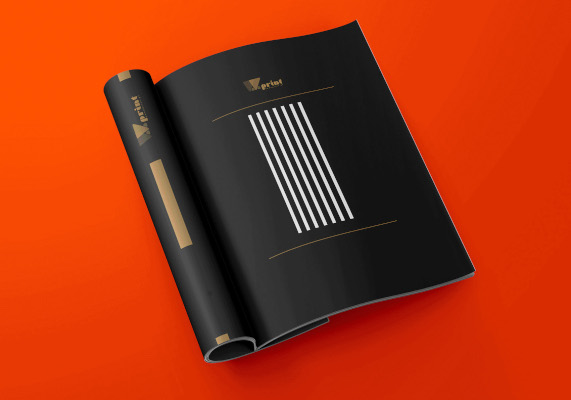
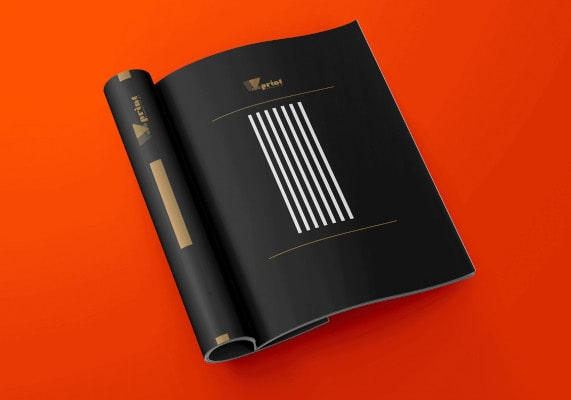
webp init

diff --git a/ksiazki.html b/ksiazki.html
@@ -133,23 +133,38 @@
 					<div class="img-box-wrapper">
 						<div class="row">
 							<div class="col-sm-6">
-								<img class="w100 fit-object-cover" src="img/ksiazki/ksiazka_oprawa_twarda_klejona_1.jpg" alt="Wawaprint - Książka oprawa twarda klejona" height="308" />
+								<picture>
+									<source type="image/webp" srcset="/img/ksiazki/ksiazka_oprawa_twarda_klejona_1.webp">
+									<img class="w100 fit-object-cover" src="img/ksiazki/ksiazka_oprawa_twarda_klejona_1.jpg" alt="Wawaprint - Książka oprawa twarda klejona" height="308" />
+								</picture>
 							</div><!-- /.col-sm-6 -->
 							<div class="col-sm-6">
-								<img class="w100 fit-object-cover" src="img/ksiazki/ksiazka_oprawa_miekka_klejona.jpg" alt="Wawaprint - Ksiązka oprawa miękka klejona" height="308" />
+								<picture>
+									<source type="image/webp" srcset="/img/ksiazki/ksiazka_oprawa_miekka_klejona.webp">
+									<img class="w100 fit-object-cover" src="img/ksiazki/ksiazka_oprawa_miekka_klejona.jpg" alt="Wawaprint - Ksiązka oprawa miękka klejona" height="308" />
+								</picture>
 							</div><!-- /.col-sm-6 -->
 						</div><!-- /.row -->
 						<div class="row">
 							<div class="col-sm-6">
-								<img class="w100 fit-object-cover" src="img/ksiazki/ksiazka_oprawa_spiralna.jpg" alt="Wawaprint - Książka oprawa spiralna" height="308" />
+								<picture>
+									<source type="image/webp" srcset="/img/ksiazki/ksiazka_oprawa_spiralna.webp">
+									<img class="w100 fit-object-cover" src="img/ksiazki/ksiazka_oprawa_spiralna.jpg" alt="Wawaprint - Książka oprawa spiralna" height="308" />
+								</picture>
 							</div><!-- /.col-sm-6 -->
 							<div class="col-sm-6">
-								<img class="w100 fit-object-cover" src="img/ksiazki/ksiazka_oprawa_zeszytowa.jpg" alt="Wawaprint - Książka oprawa zeszytowa" height="308" />
+								<picture>
+									<source type="image/webp" srcset="/img/ksiazki/ksiazka_oprawa_zeszytowa.webp">
+									<img class="w100 fit-object-cover" src="img/ksiazki/ksiazka_oprawa_zeszytowa.jpg" alt="Wawaprint - Książka oprawa zeszytowa" height="308" />
+								</picture>
 							</div><!-- /.col-sm-6 -->
 						</div><!-- /.row -->
 						<div class="row">
 							<div class="col-sm-12">
-								<img class="w100 fit-object-cover" src="img/ksiazki/ksiazka_oprawa_twarda_szyto_klejona_otwarta.jpg" alt="Wawaprint - Książka oprawa twarda szyto-klejona" height="378"/>
+								<picture>
+									<source type="image/webp" srcset="/img/ksiazki/ksiazka_oprawa_twarda_szyto_klejona_otwarta.webp">
+									<img class="w100 fit-object-cover" src="img/ksiazki/ksiazka_oprawa_twarda_szyto_klejona_otwarta.jpg" alt="Wawaprint - Książka oprawa twarda szyto-klejona" height="378"/>
+								</picture>
 							</div><!-- /.col-md-12 -->
 						</div><!-- /.row -->
 					</div><!-- /.img-box-wrapper -->

diff --git a/kalendarze.html b/kalendarze.html
@@ -133,23 +133,38 @@
 					<div class="img-box-wrapper">
 						<div class="row">
 							<div class="col-sm-6">
-								<img class="w100 fit-object-cover" src="img/wizytowki/Wizytowka_skladana_wawprint_2.jpg" alt="Wawaprint - wizytówka składana" height="308" />
+								<picture>
+									<source type="image/webp" srcset="/img/wizytowki/Wizytowka_skladana_wawprint_2.webp">
+									<img class="w100 fit-object-cover" src="img/wizytowki/Wizytowka_skladana_wawprint_2.jpg" alt="Wawaprint - wizytówka składana" height="308" />
+								</picture>
 							</div><!-- /.col-sm-6 -->
 							<div class="col-sm-6">
-								<img class="w100 fit-object-cover" src="img/wizytowki/Wizytowka_skladana_wawprint_2.jpg" alt="Wawaprint - wizytówka składana" height="308" />
+								<picture>
+									<source type="image/webp" srcset="/img/wizytowki/Wizytowka_skladana_wawprint_2.webp">
+									<img class="w100 fit-object-cover" src="img/wizytowki/Wizytowka_skladana_wawprint_2.jpg" alt="Wawaprint - wizytówka składana" height="308" />
+								</picture>
 							</div><!-- /.col-sm-6 -->
 						</div><!-- /.row -->
 						<div class="row">
 							<div class="col-sm-6">
-								<img class="w100 fit-object-cover" src="img/wizytowki/Wizytowka_skladana_wawprint_2.jpg" alt="Wawaprint - wizytówka składana" height="308" />
+								<picture>
+									<source type="image/webp" srcset="/img/wizytowki/Wizytowka_skladana_wawprint_2.webp">
+									<img class="w100 fit-object-cover" src="img/wizytowki/Wizytowka_skladana_wawprint_2.jpg" alt="Wawaprint - wizytówka składana" height="308" />
+								</picture>
 							</div><!-- /.col-sm-6 -->
 							<div class="col-sm-6">
-								<img class="w100 fit-object-cover" src="img/wizytowki/Wizytowka_skladana_wawprint_2.jpg" alt="Wawaprint - wizytówka składana" height="308" />
+								<picture>
+									<source type="image/webp" srcset="/img/wizytowki/Wizytowka_skladana_wawprint_2.webp">
+									<img class="w100 fit-object-cover" src="img/wizytowki/Wizytowka_skladana_wawprint_2.jpg" alt="Wawaprint - wizytówka składana" height="308" />
+								</picture>
 							</div><!-- /.col-sm-6 -->
 						</div><!-- /.row -->
 						<div class="row">
 							<div class="col-sm-12">
-								<img class="w100 fit-object-cover" src="img/wizytowki/Wizytowka_skladana_wawprint_2.jpg" alt="Wawaprint - wizytówka składana" height="378"/>
+								<picture>
+									<source type="image/webp" srcset="/img/wizytowki/Wizytowka_skladana_wawprint_2.webp">
+									<img class="w100 fit-object-cover" src="img/wizytowki/Wizytowka_skladana_wawprint_2.jpg" alt="Wawaprint - wizytówka składana" height="378"/>
+								</picture>
 							</div><!-- /.col-md-12 -->
 						</div><!-- /.row -->
 					</div><!-- /.img-box-wrapper -->

diff --git a/wizytowki.html b/wizytowki.html
@@ -133,23 +133,38 @@
 					<div class="img-box-wrapper">
 						<div class="row">
 							<div class="col-sm-6">
-								<img class="w100 fit-object-cover" src="img/wizytowki/Wizytowka_wawprint_3.jpg" alt="Wawaprint - wizytówka" height="308" />
+								<picture>
+									<source type="image/webp" srcset="/img/wizytowki/Wizytowka_wawprint_3.webp">
+									<img class="w100 fit-object-cover" src="img/wizytowki/Wizytowka_wawprint_3.jpg" alt="Wawaprint - wizytówka" height="308" />
+								</picture>
 							</div><!-- /.col-sm-6 -->
 							<div class="col-sm-6">
-								<img class="w100 fit-object-cover" src="img/wizytowki/Wizytowka_zaokraglona_wawprint_1.jpg" alt="Wawaprint - wizytówka okrągła" height="308" />
+								<picture>
+									<source type="image/webp" srcset="/img/wizytowki/Wizytowka_zaokraglona_wawprint_1.webp">
+									<img class="w100 fit-object-cover" src="img/wizytowki/Wizytowka_zaokraglona_wawprint_1.jpg" alt="Wawaprint - wizytówka okrągła" height="308" />
+								</picture>
 							</div><!-- /.col-sm-6 -->
 						</div><!-- /.row -->
 						<div class="row">
 							<div class="col-sm-6">
-								<img class="w100 fit-object-cover" src="img/wizytowki/Wizytowka_zaokraglona_wawprint_2.jpg" alt="Wawaprint - wizytówka okrągła" height="308" />
+								<picture>
+									<source type="image/webp" srcset="/img/wizytowki/Wizytowka_zaokraglona_wawprint_2.webp">
+									<img class="w100 fit-object-cover" src="img/wizytowki/Wizytowka_zaokraglona_wawprint_2.jpg" alt="Wawaprint - wizytówka okrągła" height="308" />
+								</picture>
 							</div><!-- /.col-sm-6 -->
 							<div class="col-sm-6">
-								<img class="w100 fit-object-cover" src="img/wizytowki/Wizytowka_skladana_wawprint_3.jpg" alt="Wawaprint - wizytówka składana" height="308" />
+								<picture>
+									<source type="image/webp" srcset="/img/wizytowki/Wizytowka_skladana_wawprint_3.webp">
+									<img class="w100 fit-object-cover" src="img/wizytowki/Wizytowka_skladana_wawprint_3.jpg" alt="Wawaprint - wizytówka składana" height="308" />
+								</picture>
 							</div><!-- /.col-sm-6 -->
 						</div><!-- /.row -->
 						<div class="row">
 							<div class="col-sm-12">
-								<img class="w100 fit-object-cover" src="img/wizytowki/Wizytowka_skladana_wawprint_2.jpg" alt="Wawaprint - wizytówka składana" height="378"/>
+								<picture>
+									<source type="image/webp" srcset="/img/wizytowki/Wizytowka_skladana_wawprint_2.webp">
+									<img class="w100 fit-object-cover" src="img/wizytowki/Wizytowka_skladana_wawprint_2.jpg" alt="Wawaprint - wizytówka składana" height="378"/>
+								</picture>
 							</div><!-- /.col-md-12 -->
 						</div><!-- /.row -->
 					</div><!-- /.img-box-wrapper -->

diff --git a/broszury-i-foldery.html b/broszury-i-foldery.html
@@ -133,23 +133,38 @@
 					<div class="img-box-wrapper">
 						<div class="row">
 							<div class="col-sm-6">
-								<img class="w100 fit-object-cover" src="img/broszury/Folder_reklamowy_wawprint_4.jpg" alt="Wawaprint - wizytówka składana" height="308" />
+								<picture>
+									<source type="image/webp" srcset="/img/broszury/Folder_reklamowy_wawprint_4.webp">
+									<img class="w100 fit-object-cover" src="img/broszury/Folder_reklamowy_wawprint_4.jpg" alt="Wawaprint - wizytówka składana" height="308" />
+								</picture>
 							</div><!-- /.col-sm-6 -->
 							<div class="col-sm-6">
-								<img class="w100 fit-object-cover" src="img/broszury/Broszury_reklamowy_wawprint_2.jpg" alt="Wawaprint - wizytówka składana" height="308" />
+								<picture>
+									<source type="image/webp" srcset="/img/broszury/Broszury_reklamowy_wawprint_2.webp">
+									<img class="w100 fit-object-cover" src="img/broszury/Broszury_reklamowy_wawprint_2.jpg" alt="Wawaprint - wizytówka składana" height="308" />
+								</picture>
 							</div><!-- /.col-sm-6 -->
 						</div><!-- /.row -->
 						<div class="row">
 							<div class="col-sm-6">
-								<img class="w100 fit-object-cover" src="img/broszury/Folder_reklamowy_wawprint_2.jpg" alt="Wawaprint - wizytówka składana" height="308" />
+								<picture>
+									<source type="image/webp" srcset="/img/broszury/Folder_reklamowy_wawprint_2.webp">
+									<img class="w100 fit-object-cover" src="img/broszury/Folder_reklamowy_wawprint_2.jpg" alt="Wawaprint - wizytówka składana" height="308" />
+								</picture>
 							</div><!-- /.col-sm-6 -->
 							<div class="col-sm-6">
-								<img class="w100 fit-object-cover" src="img/broszury/Katalog_reklamowy_wawprint_3.jpg" alt="Wawaprint - wizytówka składana" height="308" />
+								<picture>
+									<source type="image/webp" srcset="/img/broszury/Katalog_reklamowy_wawprint_3.webp">
+									<img class="w100 fit-object-cover" src="img/broszury/Katalog_reklamowy_wawprint_3.jpg" alt="Wawaprint - wizytówka składana" height="308" />
+								</picture>
 							</div><!-- /.col-sm-6 -->
 						</div><!-- /.row -->
 						<div class="row">
 							<div class="col-sm-12">
-								<img class="w100 fit-object-cover" src="img/broszury/Broszury_reklamowy_wawprint_1.jpg" alt="Wawaprint - wizytówka składana" height="378"/>
+								<picture>
+									<source type="image/webp" srcset="/img/broszury/Broszury_reklamowy_wawprint_1.webp">
+									<img class="w100 fit-object-cover" src="img/broszury/Broszury_reklamowy_wawprint_1.jpg" alt="Wawaprint - wizytówka składana" height="378"/>
+								</picture>
 							</div><!-- /.col-md-12 -->
 						</div><!-- /.row -->
 					</div><!-- /.img-box-wrapper -->

diff --git a/notesy.html b/notesy.html
@@ -133,23 +133,38 @@
 					<div class="img-box-wrapper">
 						<div class="row">
 							<div class="col-sm-6">
-								<img class="w100 fit-object-cover" src="img/notesy/Notesy_spirala_wawprint_5.jpg" alt="Wawaprint - notesy spirala" height="308" />
+								<picture>
+									<source type="image/webp" srcset="/img/notesy/Notesy_spirala_wawprint_5.webp">
+									<img class="w100 fit-object-cover" src="img/notesy/Notesy_spirala_wawprint_5.jpg" alt="Wawaprint - notesy spirala" height="308" />
+								</picture>
 							</div><!-- /.col-sm-6 -->
 							<div class="col-sm-6">
-								<img class="w100 fit-object-cover" src="img/notesy/Notesy_spirala_wawprint_2.jpg" alt="Wawaprint - notesy spirala" height="308" />
+								<picture>
+									<source type="image/webp" srcset="/img/notesy/Notesy_spirala_wawprint_2.webp">
+									<img class="w100 fit-object-cover" src="img/notesy/Notesy_spirala_wawprint_2.jpg" alt="Wawaprint - notesy spirala" height="308" />
+								</picture>
 							</div><!-- /.col-sm-6 -->
 						</div><!-- /.row -->
 						<div class="row">
 							<div class="col-sm-6">
-								<img class="w100 fit-object-cover" src="img/notesy/Notesy_spirala_wawprint_4.jpg" alt="Wawaprint - notesy spirala" height="308" />
+								<picture>
+									<source type="image/webp" srcset="/img/notesy/Notesy_spirala_wawprint_4.webp">
+									<img class="w100 fit-object-cover" src="img/notesy/Notesy_spirala_wawprint_4.jpg" alt="Wawaprint - notesy spirala" height="308" />
+								</picture>
 							</div><!-- /.col-sm-6 -->
 							<div class="col-sm-6">
-								<img class="w100 fit-object-cover" src="img/notesy/Notesy_spirala_wawprint_6.jpg" alt="Wawaprint - notesy spirala" height="308" />
+								<picture>
+									<source type="image/webp" srcset="/img/notesy/Notesy_spirala_wawprint_6.webp">
+									<img class="w100 fit-object-cover" src="img/notesy/Notesy_spirala_wawprint_6.jpg" alt="Wawaprint - notesy spirala" height="308" />
+								</picture>
 							</div><!-- /.col-sm-6 -->
 						</div><!-- /.row -->
 						<div class="row">
 							<div class="col-sm-12">
-								<img class="w100 fit-object-cover" src="img/notesy/Notesy_spirala_wawprint_1.jpg" alt="Wawaprint - notesy spirala" height="378"/>
+								<picture>
+									<source type="image/webp" srcset="/img/notesy/Notesy_spirala_wawprint_1.webp">
+									<img class="w100 fit-object-cover" src="img/notesy/Notesy_spirala_wawprint_1.jpg" alt="Wawaprint - notesy spirala" height="378"/>
+								</picture>
 							</div><!-- /.col-md-12 -->
 						</div><!-- /.row -->
 					</div><!-- /.img-box-wrapper -->

diff --git a/product-details.html b/product-details.html
@@ -133,23 +133,38 @@
 					<div class="img-box-wrapper">
 						<div class="row">
 							<div class="col-sm-6">
-								<img class="w100 fit-object-cover" src="@@ProductImg_0" alt="@@ProductImgAlt_0" height="308" />
+								<picture>
+									<source type="image/webp" srcset="@@ProductImgWebp_0">
+									<img class="w100 fit-object-cover" src="@@ProductImg_0" alt="@@ProductImgAlt_0" height="308" />
+								</picture>
 							</div><!-- /.col-sm-6 -->
 							<div class="col-sm-6">
-								<img class="w100 fit-object-cover" src="@@ProductImg_1" alt="@@ProductImgAlt_1" height="308" />
+								<picture>
+									<source type="image/webp" srcset="@@ProductImgWebp_1">
+									<img class="w100 fit-object-cover" src="@@ProductImg_1" alt="@@ProductImgAlt_1" height="308" />
+								</picture>
 							</div><!-- /.col-sm-6 -->
 						</div><!-- /.row -->
 						<div class="row">
 							<div class="col-sm-6">
-								<img class="w100 fit-object-cover" src="@@ProductImg_2" alt="@@ProductImgAlt_2" height="308" />
+								<picture>
+									<source type="image/webp" srcset="@@ProductImgWebp_2">
+									<img class="w100 fit-object-cover" src="@@ProductImg_2" alt="@@ProductImgAlt_2" height="308" />
+								</picture>
 							</div><!-- /.col-sm-6 -->
 							<div class="col-sm-6">
-								<img class="w100 fit-object-cover" src="@@ProductImg_3" alt="@@ProductImgAlt_3" height="308" />
+								<picture>
+									<source type="image/webp" srcset="@@ProductImgWebp_3">
+									<img class="w100 fit-object-cover" src="@@ProductImg_3" alt="@@ProductImgAlt_3" height="308" />
+								</picture>
 							</div><!-- /.col-sm-6 -->
 						</div><!-- /.row -->
 						<div class="row">
 							<div class="col-sm-12">
-								<img class="w100 fit-object-cover" src="@@ProductImg_4" alt="@@ProductImgAlt_4" height="378"/>
+								<picture>
+									<source type="image/webp" srcset="@@ProductImgWebp_4">
+									<img class="w100 fit-object-cover" src="@@ProductImg_4" alt="@@ProductImgAlt_4" height="378"/>
+								</picture>
 							</div><!-- /.col-md-12 -->
 						</div><!-- /.row -->
 					</div><!-- /.img-box-wrapper -->

diff --git a/css/responsive.css b/css/responsive.css
@@ -17,7 +17,7 @@
         margin-right: 0;
         border-color: #212121;
         background-color: transparent !important;
-        margin: 40px 0;
+        margin: 24px 0;
     }
     .navbar-default .navbar-toggle:hover {border-color: #FF4328;}
     .navbar-default .navbar-toggle .icon-bar {background: #212121;}
@@ -135,12 +135,12 @@
     .navbar-header {padding-right: 0px;}
     .header-navigation ul.navigation-box > li > ul.sub-menu > li > a .sub-nav-toggler {border-color: #F5F6FA}
     .header-navigation ul.navigation-box > li > ul.sub-menu > li > a .sub-nav-toggler .icon-bar {background-color: #F5F6FA}
-    .header-navigation .thm-container .navbar-brand {padding: 25px 0;}
+    .header-navigation .thm-container .navbar-brand {padding: 19px 0;}
     .header-navigation ul.navigation-box > li:hover > a,
     .header-navigation ul.navigation-box > li.current > a {background: #FF4328;color: #fff;}
     .header-navigation .thm-container {padding-right: 15px;}
     .header-navigation .thm-container .navbar-header {padding-right: 150px;}
-    .header-navigation .thm-container .right-side-box {top:30px;-webkit-transform: translateX(0); -ms-transform: translateX(0); -o-transform: translateX(0); transform: translateX(0);right: 15px;} 
+    .header-navigation .thm-container .right-side-box {top:12px;-webkit-transform: translateX(0); -ms-transform: translateX(0); -o-transform: translateX(0); transform: translateX(0);right: 15px;} 
     .header-navigation .thm-container .navbar-header {position: static;-webkit-transform: translateX(0); -ms-transform: translateX(0); -o-transform: translateX(0); transform: translateX(0);}
     .header-navigation ul.navigation-box > li::before {display: none;} 
 }

diff --git a/css/style.css b/css/style.css
@@ -253,13 +253,13 @@ body.active-preloader-ovh {
 ***************************/
 
 .avoid-site-jump{
-  height: 128px;
+  height: 82px;
   position: absolute;
 }
 
 @media (max-width: 1024px){
   .avoid-site-jump{
-    height: 114px;
+    height: 82px;
   }
 }
 
@@ -345,7 +345,7 @@ body.active-preloader-ovh {
 
 .header-navigation ul.navigation-box>li {
   position: relative;
-  padding: 48.5px 0;
+  padding:  25px 0;
   display: inline-block;
 }
 
@@ -495,23 +495,13 @@ body.active-preloader-ovh {
   box-shadow: none;
 }
 
-.header-navigation.stricky-fixed .thm-container .navbar-brand {
-  padding-top: 27px;
-  padding-bottom: 27px;
-}
-
-.header-navigation.stricky-fixed ul.navigation-box>li {
-  padding-top: 30px;
-  padding-bottom: 30px;
-}
-
 @media (max-width: 1200px){
   .header-navigation ul.navigation-box {
     max-width: 700px;
   }
   .header-navigation ul.navigation-box>li {
    float: revert;
-   padding: 16px 0px; 
+   padding: 5px 0px; 
   }
   .header-navigation.stricky-fixed ul.navigation-box>li {
     padding: 7px 0px; 

diff --git a/js/custom.js b/js/custom.js
@@ -295,12 +295,12 @@ function thmbxSlider() {
 
 function stickyHeader() {
     if ($('.stricky').length) {
-        var strickyScrollPos = 129;
+        var strickyScrollPos = 82;
         var stricky = $('.stricky');
         if ($(window).scrollTop() > strickyScrollPos) {        	
             stricky.removeClass('slideIn animated');
             stricky.addClass('stricky-fixed slideInDown animated');
-            stricky[0].style.top = ($(window).scrollTop() - (2 * 129)) < 0 ? (($(window).scrollTop() - (2 * 129)) + 'px') : '0';
+            stricky[0].style.top = ($(window).scrollTop() - (2 * 82)) < 0 ? (($(window).scrollTop() - (2 * 82)) + 'px') : '0';
             $('.avoid-site-jump')[0].style.position = 'relative'
             $('.scroll-to-top').fadeIn(500);
         } else if ($(this).scrollTop() <= strickyScrollPos) {
